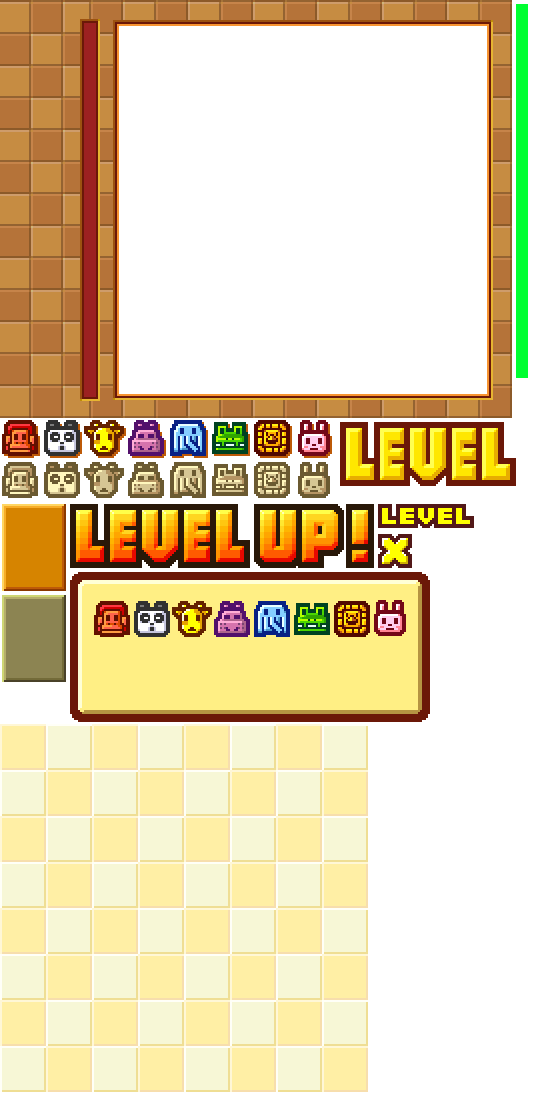
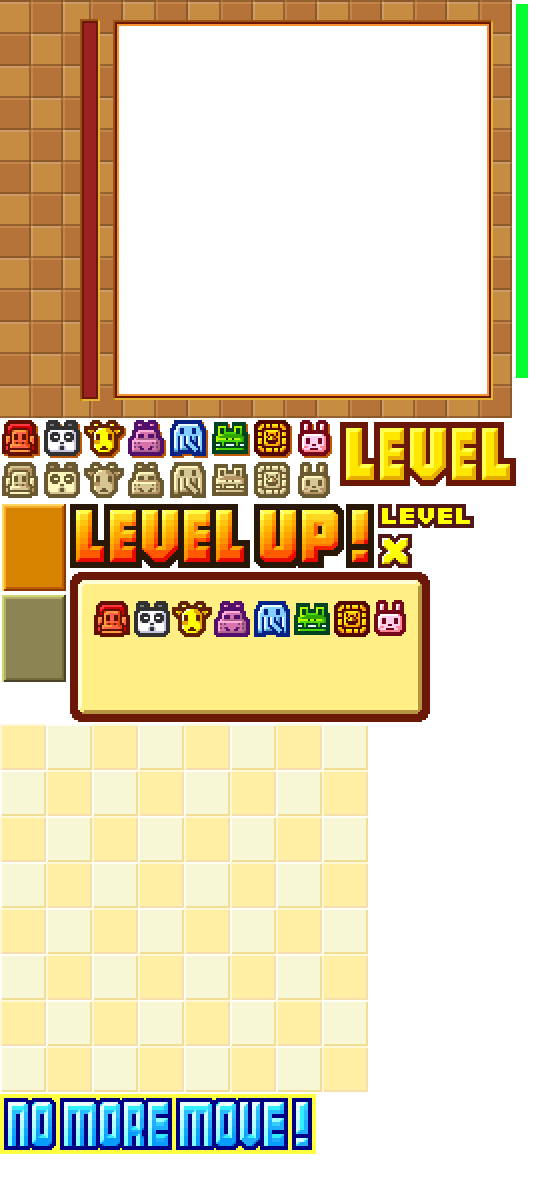
piece picker added

diff --git a/js/GamePlay.js b/js/GamePlay.js
@@ -173,11 +173,16 @@ function GamePlay(){
 	var play = {
 		background : null,
 		field : null,
+		picker : null,
 		panel : [8],
 
+		selected : false, // hold selected piece row, col index  "selected:{row: int, col:int}"
+
+
 		init : function(){
-			play.field = new VisualGameObject().startupVisualGameObject(g_ResourceManager.main, 0, 0, 512, 418, 0, 278, 3);
-			play.background = new VisualGameObject().startupVisualGameObject(g_ResourceManager.main, 0, 724, 368, 368, 119, 304, 1);
+			play.background = new VisualGameObject().startupVisualGameObject(g_ResourceManager.main, 0, 0, 512, 418, 0, 278, 3);
+			play.field = new VisualGameObject().startupVisualGameObject(g_ResourceManager.main, 0, 724, 368, 368, 119, 304, 1);
+			play.picker = new AnimatedGameObject().startupAnimatedGameObject(g_ResourceManager.panels, 0, 416, 58, 58, 520, 400, 4, 2, 4)
 
 			var xPosition, yPosition;
 			for(var i=0; i<8; i++){
@@ -185,7 +190,35 @@ function GamePlay(){
 				for(var j=0; j<8; j++){
 					xPosition = 119 + j*46;
 					yPosition = 304 + i*46;
-					play.panel[i].push(new Piece().startupPiece(i, j).wink()) 
+					play.panel[i].push(new Piece().startupPiece(i, j)) 
+				}
+			}
+
+			play.field.mouseclick = play.pieceClick;
+		},
+
+		pieceClick : function(event){
+
+			var rowIndex = Math.floor( (event.offsetY - play.field.y) / 46);
+			var colIndex = Math.floor( (event.offsetX - play.field.x) / 46);
+			
+			if( rowIndex >= 0 && rowIndex < 8 && colIndex >= 0 && colIndex <8){
+				if(!play.selected){
+					play.selected = {
+						row : rowIndex,
+						col : colIndex
+					}
+					play.pickerOn(rowIndex, colIndex);
+				}else{
+
+					if(Math.abs(rowIndex - play.selected.row) + Math.abs(colIndex - play.selected.col) > 1){
+						//not adjacent
+						play.selected.row = rowIndex;
+						play.selected.col = colIndex;
+						play.pickerOn(rowIndex, colIndex);
+					}else{
+						alert('adjacent')
+					}
 				}
 			}
 
@@ -193,6 +226,15 @@ function GamePlay(){
 
 		shuffle : function(){
 
+		},
+
+		pickerOn : function(row, col){
+			play.picker.x = play.panel[row][col].x - 6;
+			play.picker.y = play.panel[row][col].y - 6;
+		},
+
+		hidePicker : function(){
+			play.picker.x = 520;
 		}
 	}
 

diff --git a/js/Piece.js b/js/Piece.js
@@ -30,10 +30,6 @@ function Piece(){
 		this.draw = this.animate;
 	}
 
-	this.mouseclick = function(event){
-
-	}
-
 	this.wink = function(){
 		this.currentFrame = 0;
 		this.frameWidth = this.width;
@@ -41,6 +37,10 @@ function Piece(){
 		this.timeBetweenFrames = 0.5;
 		this.timeSinceLastFrame = this.timeBetweenFrames;
 		this.draw = this.animate;
+	}
+
+	this.huff = function(){
+		this.sx = 92;
 	}
 	
 	this.animate = function(dt, context, xScroll, yScroll){
